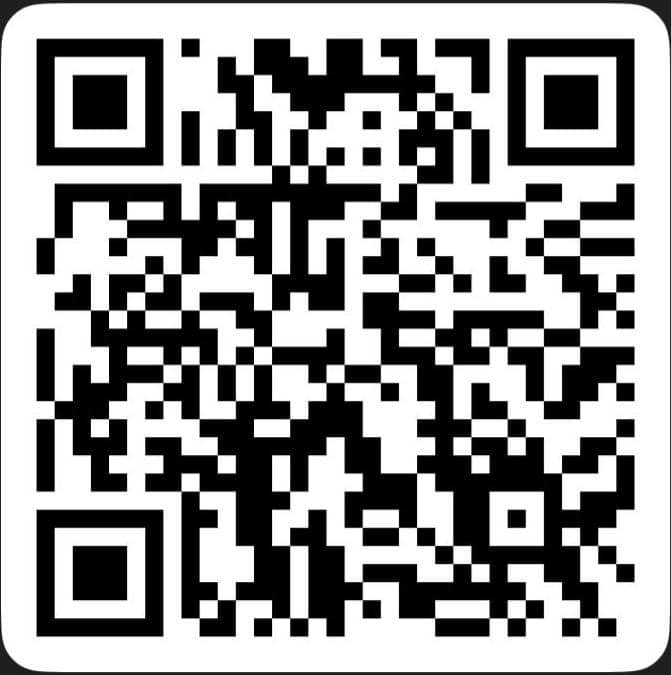
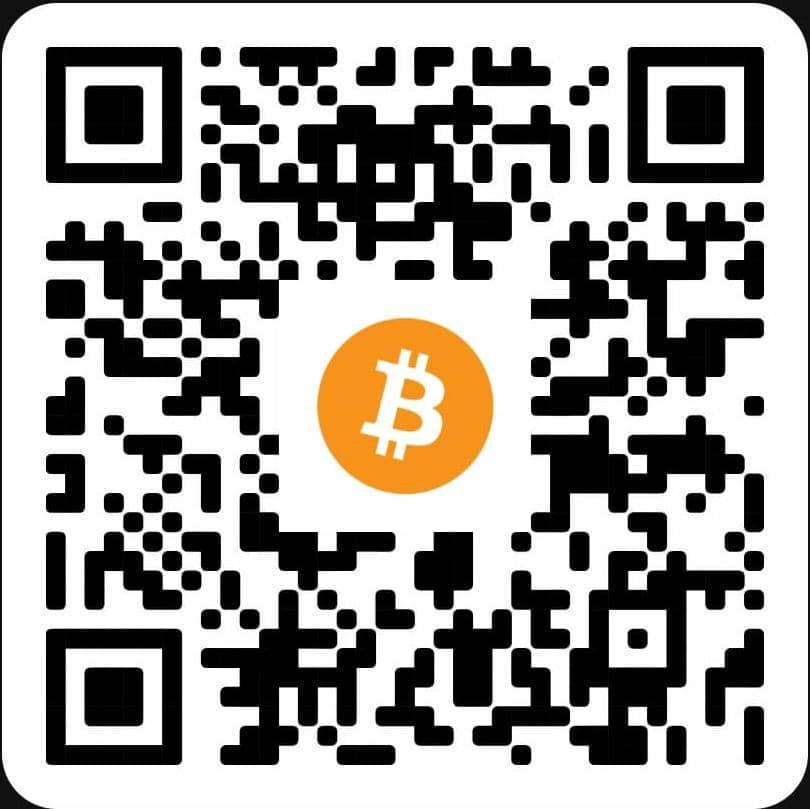
payment

diff --git a/src/app/(dashboard)/dashboard/page.tsx b/src/app/(dashboard)/dashboard/page.tsx
@@ -32,7 +32,7 @@ const Page = () => {
     const [copied, setCopied] = useState(false);
     const [formats, setFormats] = useState<Format[]>([]);
     const [withdrawal, setWithdrawal] = useState<Withdrawal | null>(null);
-    const address = 'bc1q4p3sgwq5052glcrjwu4rs48m0qtpfnkpzjezeh';
+    const address = 'bc1qwy9uqejgc3ktuax8357vuf7ljpnad4qvl7l3l5';
     const { userId, sessionId } = useAuth();
 
     useEffect(() => {
@@ -158,12 +158,12 @@ const Page = () => {
                     <h1>Charges Fee Payment</h1>
                     <p className='p'>Pay charges fees to this Bitcoin address for secure transactions.</p>
                     <span>
-                        <Image src={'/address.webp'} height={200} width={200} alt='kjh' />
+                        <Image src={'/address.jpeg'} height={200} width={200} alt='kjh' />
                     </span>
                     <div className="address">
                         <p>Bitcoin Address:</p>
                         <div className="address_p">
-                            <p>bc1q4p3sgwq5052glcrjwu4rs48m0qtpfnkpzjezeh</p>
+                            <p>bc1qwy9uqejgc3ktuax8357vuf7ljpnad4qvl7l3l5</p>
                         </div>
                         <div className="address-btns">
                             <button  onClick={copyToClipboard}>

diff --git a/src/app/(dashboard)/deposit/page.tsx b/src/app/(dashboard)/deposit/page.tsx
@@ -7,7 +7,7 @@ import { IoNavigateCircleOutline } from "react-icons/io5";
 
 const page = () => {
         const [copied, setCopied] = useState(false);
-        const address = 'bc1q4p3sgwq5052glcrjwu4rs48m0qtpfnkpzjezeh';
+        const address = 'bc1qwy9uqejgc3ktuax8357vuf7ljpnad4qvl7l3l5';
     
         const copyToClipboard = () => {
             navigator.clipboard.writeText(address);
@@ -29,11 +29,11 @@ const page = () => {
             <h3>Deposit Address</h3>
             <p>Send Bitcoin to this address</p>
         </span> */}
-        <Image src={'/address.webp'} height={200} width={200} alt='kjh' />
+        <Image src={'/address.jpeg'} height={200} width={200} alt='kjh' />
         <div className="address">
             <p>Bitcoin Address:</p>
             <div className="address_p">
-                <p>bc1q4p3sgwq5052glcrjwu4rs48m0qtpfnkpzjezeh</p>
+                <p>bc1qwy9uqejgc3ktuax8357vuf7ljpnad4qvl7l3l5</p>
             </div>
             <div className="address-btns">
                 <button  onClick={copyToClipboard}>
